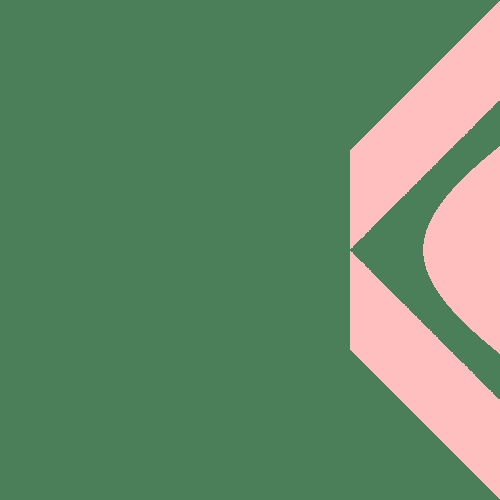
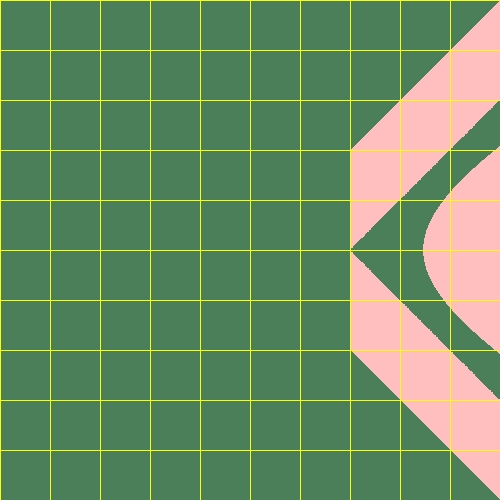
some aliasing fixes

Changed region(s): [[0.0, 0.0, 1.0, 1.0]]

diff --git a/step_5/src/elements/Camera.java b/step_5/src/elements/Camera.java
@@ -14,14 +14,21 @@ import primitives.Util;
 public class Camera 
 {
 	/**
-	 *  location is center of camera location
-	 *  Vtoward points to view's center.
-	 *  Vright
-	 *  Vup
+	 *  p0 is center of camera location
 	 */
 	private Point3D _p0;
+	/**
+	 *  Vup pointed up
+	 */
 	private Vector _vUp;
+	/**
+	 * Vtoward points to view's plane center.
+	 * 
+	 */
 	private Vector _vTo;
+	/**
+	 * _vRight pointed to the right side of camera
+	 */
 	private Vector _vRight;
 	
 	
@@ -34,9 +41,9 @@ public class Camera
 	public Camera(Point3D _location, Vector _Vright, Vector _Vup) 
 	{
 		if (_Vright.length() != 1)
-			_Vright = _Vright.normalized();
+			_Vright = _Vright.normalize();
 		if (_Vup.length() != 1)
-			_Vup = _Vup.normalized();
+			_Vup = _Vup.normalize();
 		this._p0 = new Point3D(_location);
 		this._vRight = new Vector(_Vright);
 		this._vUp = new Vector(_Vup);
@@ -99,26 +106,26 @@ public class Camera
 			throw new IllegalArgumentException("distance cannot be 0");
 		}
 		
-		Point3D Pc = _p0.add(_vTo.scale(screenDistance));
+		Point3D Pc = new Point3D(_p0.add(_vTo.scale(screenDistance)));
 		
 		double Ry = screenHeight/nY;
 		double Rx = screenWidth/nX;
 		
-		double yi =  ((i - nY/2d)*Ry + Ry/2d);
-		double xj=   ((j - nX/2d)*Rx + Rx/2d);
+		double yi =  ((i - nY/2d)*Ry + Ry/2);
+		double xj=   ((j - nX/2d)*Rx + Rx/2);
 		
-		Point3D Pij = Pc;
+		Point3D Pij = new Point3D(Pc);
 		
 		if (! Util.isZero(xj))
 		{
-			Pij = Pij.add(_vRight.scale(xj));
+			Pij = new Point3D(Pij.add(_vRight.scale(xj)));
 		}
 		if (! Util.isZero(yi))
 		{
-			Pij = Pij.add(_vUp.scale(-yi));
+			Pij = new Point3D(Pij.add(_vUp.scale((-1) * yi)));
 		}
 		
-		Vector Vij = Pij.subtract(_p0);
+		Vector Vij = new Vector(Pij.subtract(_p0));
 		
 		return new Ray(_p0,Vij);
 		

diff --git a/step_5/src/geometries/Sphere.java b/step_5/src/geometries/Sphere.java
@@ -91,14 +91,13 @@ public class Sphere extends RadialGeometry{
 	public ArrayList<Point3D> findIntersections(Ray r) {
 		ArrayList<Point3D> lst = new ArrayList<Point3D>();
 		Point3D P0 = r.get_point();
-		Vector V = new Vector(r.get_direction());			
-		V.normalize();
+		Vector V = new Vector(r.get_direction()).normalize();
 		Vector L;
 		try 
 		{
-			L = new Vector(_center.subtract(P0));
-		} 
-		catch (Exception e) 
+			L = new Vector(_center.subtract(P0));//.normalize();
+		}
+		catch (Exception e)
 		{
 			lst.add(P0.add(V.scale(get_radius())));
 			return lst;
@@ -118,19 +117,18 @@ public class Sphere extends RadialGeometry{
 		double t2 = tm + th;
 		if (t1 > 0)
 		{
-			Point3D P1 = new Point3D(r.get_point().add(V.scale(t1)));
+			Point3D P1 = new Point3D(r.getPoint(t1));
 			lst.add(P1);
 		}
 		if(D == get_radius())
 			return lst;
 		if (t2 > 0)
 		{
-			Point3D P2 = new Point3D(r.get_point().add(V.scale(t2)));
+			Point3D P2 = new Point3D(r.getPoint(t2));
 			lst.add(P2);
 		}
 		if (lst.isEmpty())
-			return null;
-		
+			return null;		
 		return lst;
 	}
 

diff --git a/step_5/src/geometries/Triangle.java b/step_5/src/geometries/Triangle.java
@@ -48,12 +48,12 @@ public class Triangle extends Polygon {
         System.out.println(_plane.toString());
         if (intersections == null) return null;
 
-        Point3D p0 = ray.get_point();
-        Vector v = ray.get_direction();
+        Point3D p0 = new Point3D(ray.get_point());
+        Vector v = new Vector(ray.get_direction());
 
-        Vector v1 = _vertices.get(0).subtract(p0);
-        Vector v2 = _vertices.get(1).subtract(p0);
-        Vector v3 = _vertices.get(2).subtract(p0);
+        Vector v1 = new Vector(_vertices.get(0).subtract(p0));
+        Vector v2 = new Vector(_vertices.get(1).subtract(p0));
+        Vector v3 = new Vector(_vertices.get(2).subtract(p0));
 
         double s1 = v.dotProduct(v1.crossProduct(v2));
         if (Util.isZero(s1)) return null;

diff --git a/step_5/src/unittests/RenderTests.java b/step_5/src/unittests/RenderTests.java
@@ -39,8 +39,8 @@ public class RenderTests {
         ImageWriter imageWriter = new ImageWriter("base render test", 500, 500, 500, 500);
         Render render = new Render(imageWriter, scene);
 
-        //render.printGrid(50, java.awt.Color.YELLOW);//grid
         render.renderImage();//our image
+        render.printGrid(50, java.awt.Color.YELLOW);//grid
         render.writeToImage();//into files
     }
     

diff --git a/step_5/src/geometries/Plane.java b/step_5/src/geometries/Plane.java
@@ -85,11 +85,12 @@ public class Plane implements Geometry {
 	* else P = ray's point + t * ray's direction
 	*
 	*/
+	@Override
 	public List<Point3D> findIntersections(Ray r) {
 		Vector V;
         try
         {
-            V = _p.subtract(r.get_point());
+            V = new Vector(_p.subtract(r.get_point()));
         }
         catch (IllegalArgumentException e)
         {

diff --git a/step_5/src/primitives/Ray.java b/step_5/src/primitives/Ray.java
@@ -96,7 +96,7 @@ public class Ray
     public Point3D getPoint(double t) {
     	if(isZero(t))
     		return _point;
-    	return _point.add(_direction.scale(t));
+    	return new Point3D(_point.add(_direction.scale(t)));
     }
 	
 }
